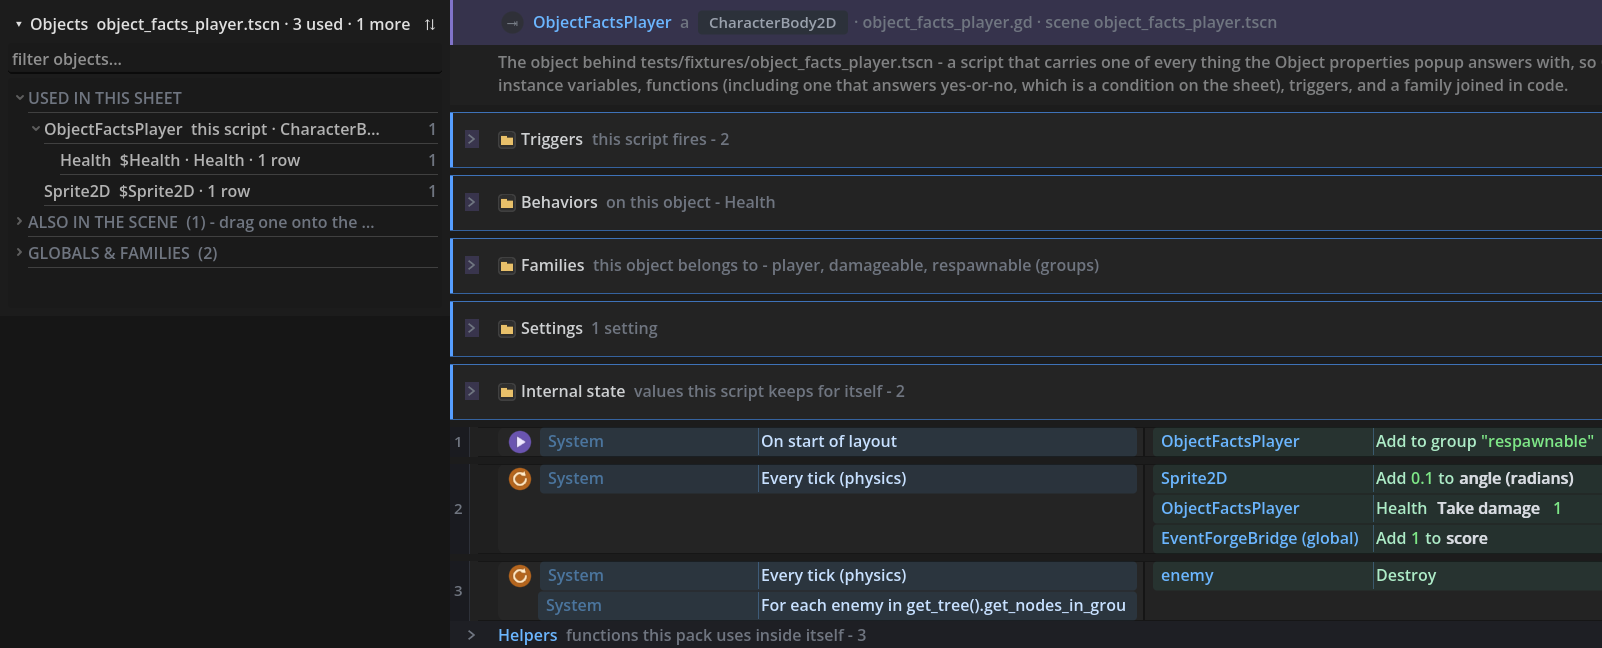
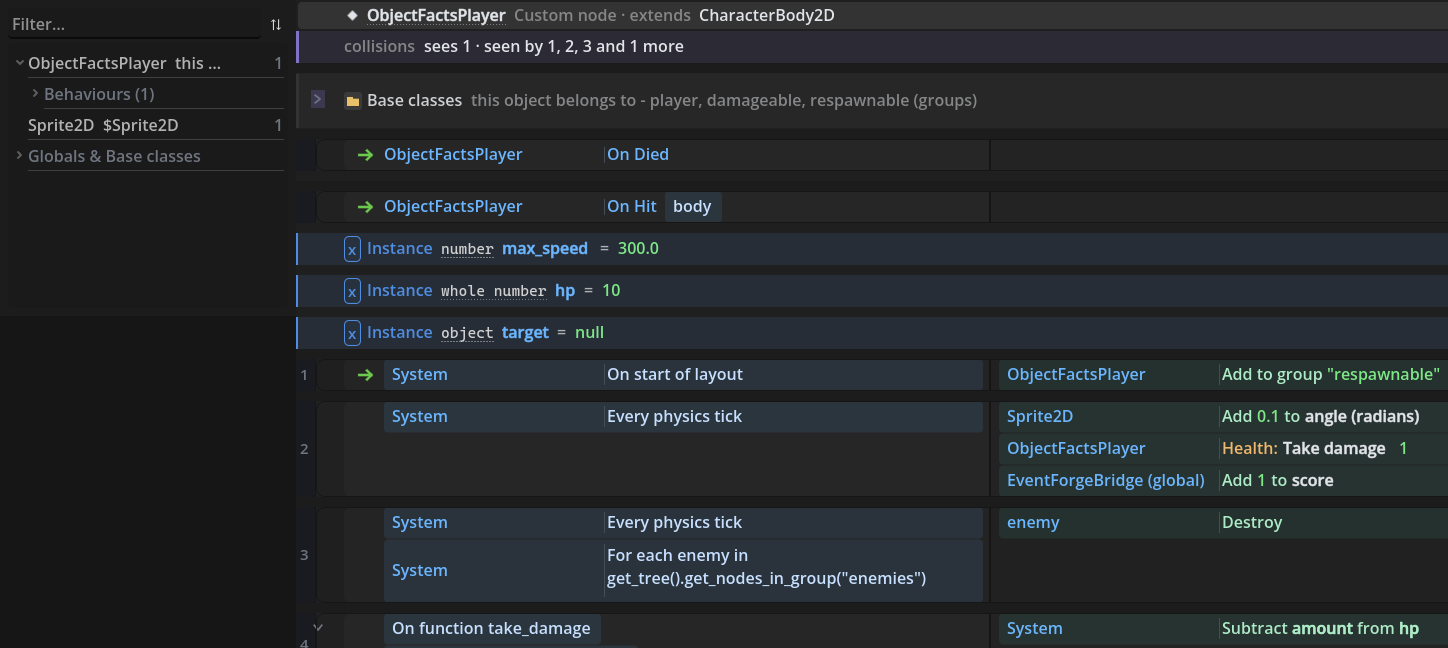
feat(sheet): a node dragged from Godot's Scene dock onto the canvas starts an event on it, like the same object from the Objects list

diff --git a/CHANGELOG.md b/CHANGELOG.md
@@ -4,6 +4,11 @@ The work not yet released is listed first, under `[Unreleased]`. Each released v
 
 ## [Unreleased]
 
+### Changed: a node dragged from Godot's Scene dock starts an event on it
+
+- Since the Objects list no longer lists the rest of the scene, Godot's Scene dock is where an unused node comes from. Dragging one onto the empty canvas or onto an event now does exactly what dragging the same object off the Objects list does: the picker opens on that object (Add condition, or Add action when it lands in an event's action lane), with the same offers as before for a node in the secret or water group or one that exports needs_key. A node the sheet already uses lands under the name the sheet gives it. Dropped on a parameter value it still fills that parameter with the node reference, as it did.
+- The picture of the Objects rail in the guides is drawn again, now showing only the objects the sheet uses.
+
 ### Changed: a behaviour is added with Godot's own Create Node window
 
 - Every Add behavior... door (the Objects list's right-click, the head's Behaviors folder, the picker's suggestion) now opens Godot's own Create Node window, titled "Add a behaviour to <object>". Every behaviour is a plain script with a class name and an icon, so Godot already lists it there. What you choose goes under that object in the open scene as one undo step (Ctrl+Z takes it out) and is selected, so Godot's Inspector shows its values. If the object is not in the open scene, the status line says so and nothing happens. A behaviour that ships a scene or a shader of its own is still added the way its guide says.
